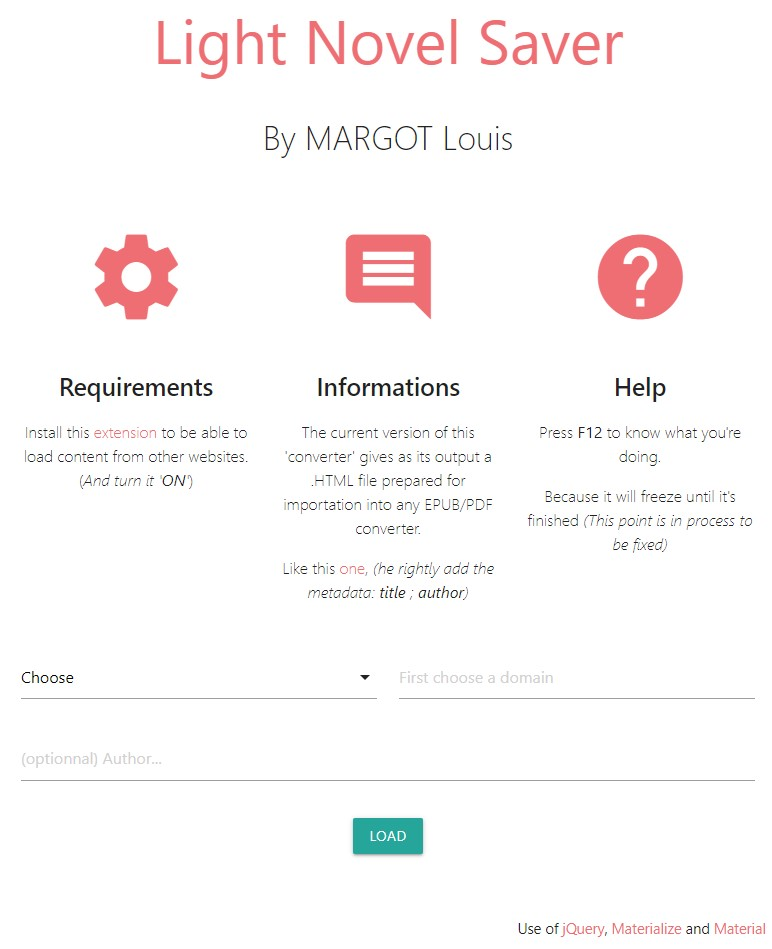
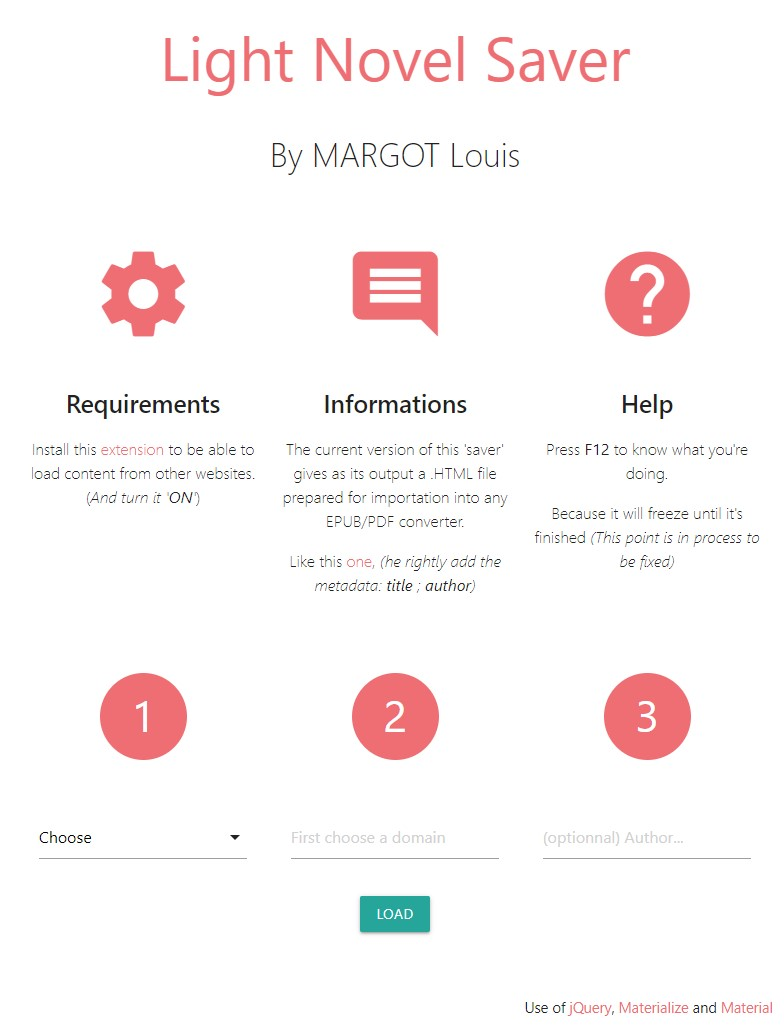
Graphical update
The form was confusing so I added steps.

Additionnally, It takes less place.

diff --git a/index.html b/index.html
@@ -51,6 +51,7 @@
 </head>
 <body>
 	<main class="container">
+		<!-- Headers -->
 		<section class="row center">
 			<div class="col s12 m10 offset-m1">
 				<h1 class="header">Light Novel Saver</h1>
@@ -59,6 +60,8 @@
 				<h4 class="light">By MARGOT Louis</h4>
 			</div>
 		</section>
+
+		<!-- Infos -->
 		<section class="row">
 			<div class="col s12 m4">
 				<div class="center ln_info">
@@ -80,7 +83,7 @@
 					<i class="material-icons">comment</i>
 					<p class="ln_info-caption center">Informations</p>
 					<p class="light center">
-						The current version of this 'converter' gives as its output a .HTML 
+						The current version of this 'saver' gives as its output a .HTML 
 						file prepared for importation into any EPUB/PDF converter.
 					</p>
 					<p class="light center">
@@ -107,33 +110,50 @@
 				</div>
 			</div>
 		</section>
+
+		<!-- Form -->
 		<section class="row">
 			<!-- A choice of the website and an input to write the URL -->
-			<div class="input-field col s6">
-				<select id="ln_type" class="validate" onchange="ln_type();">
-					<option value="" disabled selected>Choose</option>
-					<option value="www.lightnovelstranslations.com"
-						>www.lightnovelstranslations.com</option>
-					<option value="www.lightnovelworld.com"
-						>www.lightnovelworld.com</option>
-				</select>
+			<div class="col s12 m4">
+				<div class="center ln_form">
+					<span>1</span>
+					<div class="input-field col s12">
+						<select id="ln_type" class="validate" onchange="ln_type();">
+							<option value="" disabled selected>Choose</option>
+							<option value="www.lightnovelstranslations.com"
+								>www.lightnovelstranslations.com</option>
+							<option value="www.lightnovelworld.com"
+								>www.lightnovelworld.com</option>
+						</select>
+					</div>
+				</div>
 			</div>
-			<div class="input-field col s6">
-				<input
-					class="validate"
-					type="text"
-					id="ln_url"
-					placeholder="First choose a domain"
-					required
-				>
+			<div class="col s12 m4">
+				<div class="center ln_form">
+					<span>2</span>
+					<div class="input-field col s12">
+						<input
+							class="validate"
+							type="text"
+							id="ln_url"
+							placeholder="First choose a domain"
+							required
+						>
+					</div>
+				</div>
 			</div>
-			<div class="input-field col s12">
-				<input
-					class="validate"
-					type="text"
-					id="ln_author"
-					placeholder="(optionnal) Author..."
-				>
+			<div class="col s12 m4">
+				<div class="center ln_form">
+					<span>3</span>
+					<div class="input-field col s12">
+						<input
+							class="validate"
+							type="text"
+							id="ln_author"
+							placeholder="(optionnal) Author..."
+						>
+					</div>
+				</div>
 			</div>
 			<div class="input-field col s12">
 				<a class="waves-effect waves-light btn" onclick="ln_load();">

diff --git a/local/css/style.css b/local/css/style.css
@@ -1,17 +1,15 @@
-
-
 h1 {
-	text-align: center;
-	font-size: 18pt;
+  text-align: center;
+  font-size: 18pt;
 }
 
 p {
-	text-align: left;
-	font-size: 12pt;
+  text-align: left;
+  font-size: 12pt;
 }
 
 main {
-	text-align: center;
+  text-align: center;
 }
 
 a:link:not(.btn), a:visited:not(.btn) {
@@ -23,27 +21,39 @@ a:hover:not(.btn), a:active:not(.btn) {
 }
 
 #ln_content {
-	display: none;
+  display: none;
 }
 
 .header {
-	color: #ee6e73;
+  color: #ee6e73;
 }
 
-.ln_info {
-    width: 100%;
+.ln_info, .ln_form {
+  width: 100%;
 }
 
 .ln_info > i {
-    margin: 40px 0;
-    color: #ee6e73;
-    font-size: 7rem;
-    display: block;
+  margin: 40px 0;
+  color: #ee6e73;
+  font-size: 7rem;
+  display: block;
+}
+
+.ln_form > span {
+  margin: 40px 0;
+  background-color: #ee6e73;
+  color: white;
+  font-size: 3rem;
+  display: inline-block;
+  width: 2em;
+  height: 2em;
+  border-radius: 50%;
+  padding-top: 0.2em;
 }
 
 .ln_info-caption {
-    font-size: 1.7rem;
-    font-weight: 500;
-    margin-top: 5px;
-    margin-bottom: 0;
+  font-size: 1.7rem;
+  font-weight: 500;
+  margin-top: 5px;
+  margin-bottom: 0;
 }
